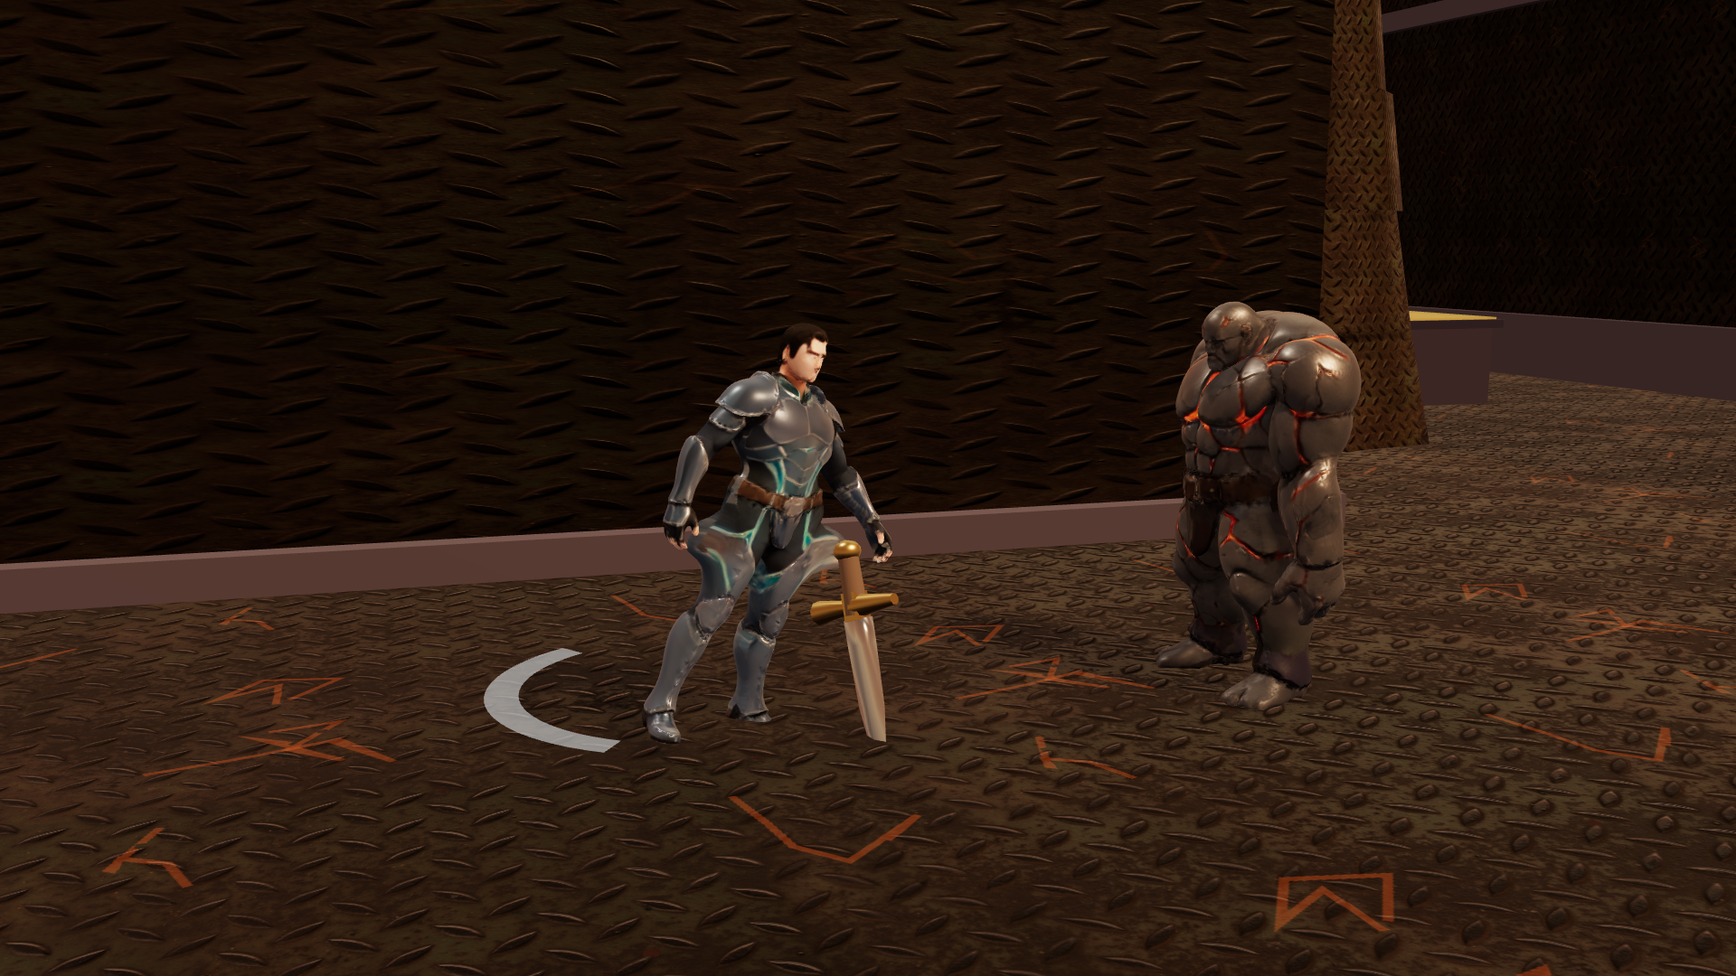
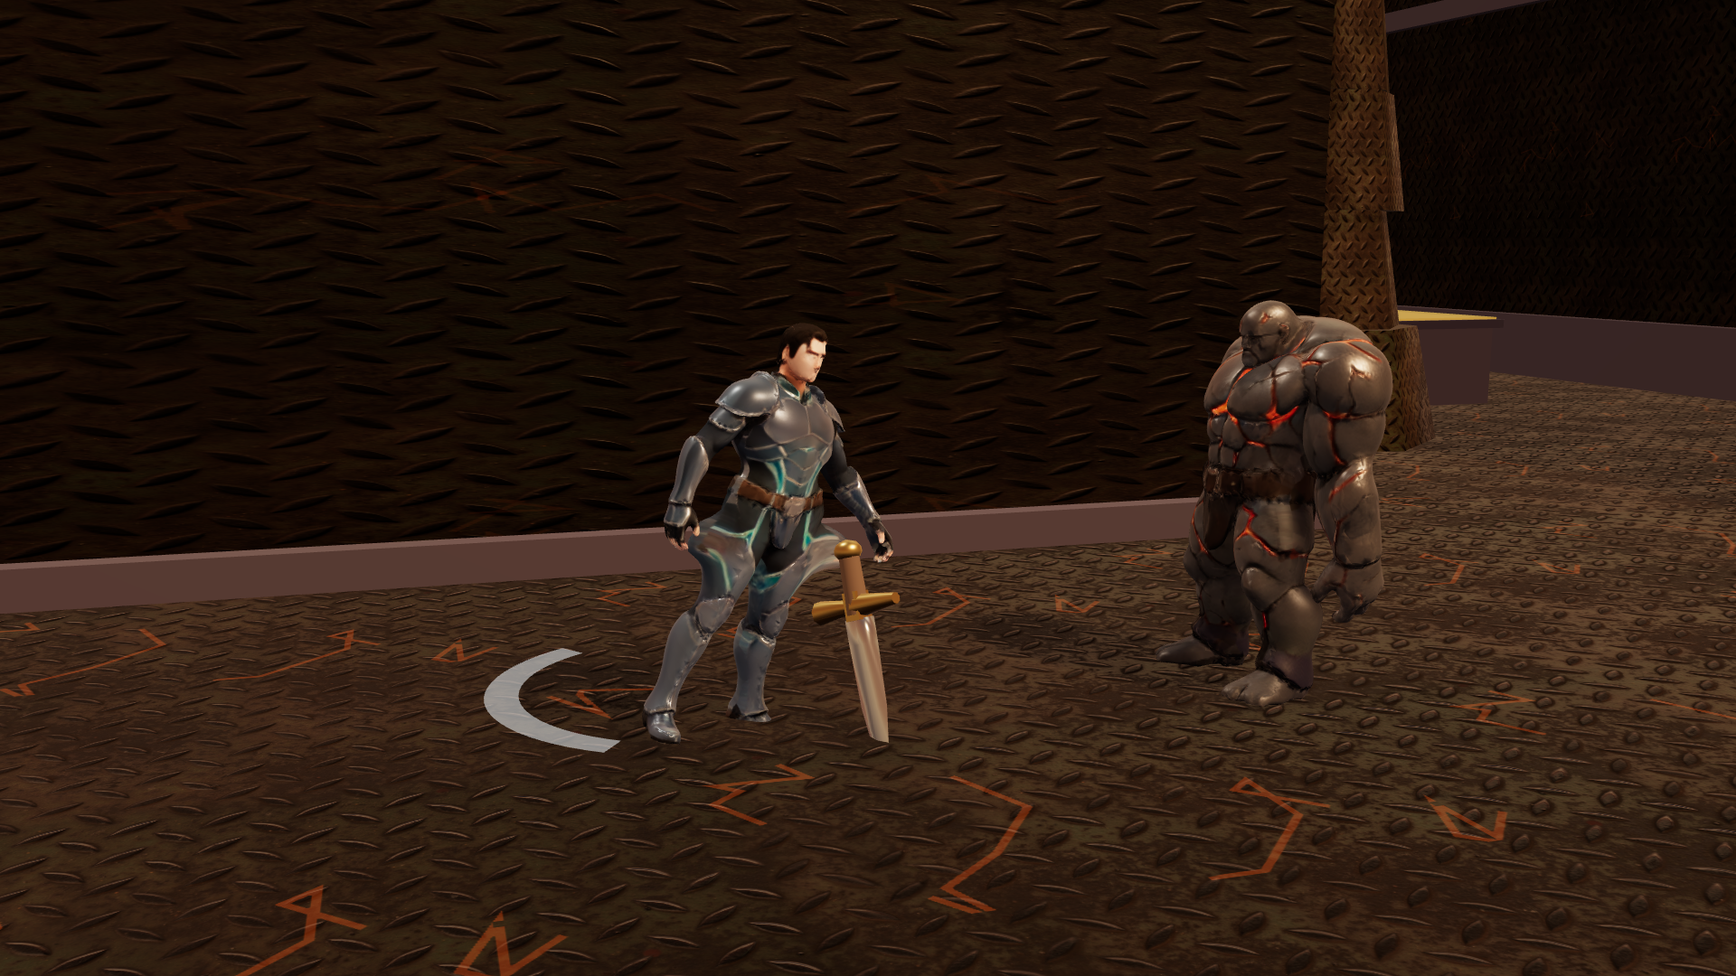
Batch 84: four reported bugs - the back button, the unlabelled toggle, the duplicate Close, and a tableau of two people standing still
BACK TO ONLINE VERSION DID NOTHING. #btn-back-to-online is in the markup and
nothing anywhere called addEventListener on it. The sync even had a step
rewriting the destination -

    location.href = '../index.html' + ...  ->  location.href = '/' + ...

- renaming a destination that nothing navigated to. That step has been a no-op
since it was written, and reported "ok" every run, which is why this looked
handled. Wired now, carrying location.search so ?debug=1 survives the trip.

"A BUTTON THAT JUST SAYS OFF AND ON" - and I caused it. setOptState writes into
a `.opt-state` pill and falls back to replacing the button's whole textContent
when there is no pill. The online rows are

    <button class="opt">Glow<span class="opt-state">On</span></button>

and this build's were plain `<button>Glow: On</button>`, so the moment
refreshBloomUI was unified the shared version ran here and the fallback ate the
label. The rows are the fix, not the fallback: same markup and CSS as the online
build, so shared code behaves identically and the two Settings screens match.

"AND IT DOESN'T SEEM TO CHANGE ANYTHING" is a different bug, and worse. Glow
cannot do anything here:

    function renderWithBloomLocal(scn, cam) { renderer.render(scn, cam); }

There is no EffectComposer in this build at all - bloom was turned down for
split screen, where it would have to run per viewport. The toggle wrote a flag,
reloaded the arena and changed nothing. Removed rather than relabelled: a
[…]

diff --git a/local/index.html b/local/index.html
@@ -717,6 +717,25 @@
             align-items: center; justify-content: center; z-index: 20;
         }
         #settings-screen .menu-section { max-width: 320px; }
+        .opt {
+            display: flex; align-items: center; justify-content: space-between;
+            gap: 12px; width: 100%; margin: 6px 0; padding: 9px 12px;
+            background: #1a2235; color: #cbd5e1; border: 1px solid #2e3a59;
+            border-radius: 6px; font-size: 0.82rem; font-weight: 600;
+            box-shadow: none; text-align: left; cursor: pointer;
+        }
+        .opt:hover { background: #232d47; color: #e2e8f0; box-shadow: none; }
+        .opt .opt-state {
+            flex: none; padding: 3px 10px; border-radius: 999px;
+            background: #0f1626; border: 1px solid #334155;
+            color: #94a3b8; font-size: 0.74rem; font-weight: 700;
+            letter-spacing: 0.04em;
+        }
+        /* ON is the only state that gets colour, so a glance finds it. */
+        .opt.is-on .opt-state {
+            background: rgba(0, 243, 255, 0.14); border-color: #00f3ff; color: #00f3ff;
+        }
+        .menu-section .opt { width: 100%; }
         .settings-list { display: flex; flex-direction: column; gap: 8px; margin: 10px 0; }
         .settings-list button { margin: 0; text-align: left; }
         .settings-check {
@@ -1294,7 +1313,6 @@
                     <div id="rebind-list"></div>
                     <p class="rebind-hint">Click a key, then press its replacement. Esc cancels.</p>
                     <button id="btn-rebind-reset">Reset to Defaults</button>
-                    <button id="btn-rebind-close">Close</button>
                 </div>
             </div>
 
@@ -1313,8 +1331,8 @@
                         <label for="vol-music">Music</label>
                         <input type="range" id="vol-music" min="0" max="1" step="0.01">
                     </div>
-                    <button id="btn-audio-mute">Mute: OFF</button>
-                    <button id="btn-audio-close">Close</button>
+                    <button id="btn-audio-mute" class="opt">Sound<span class="opt-state">On</span></button>
+                    <button id="btn-audio-close" class="btn-back">Back to Settings</button>
                 </div>
             </div>
 
@@ -1323,8 +1341,8 @@
                     <h3>Settings</h3>
                     <div class="settings-list">
                         <button id="btn-open-rebind">Rebind Keys</button>
-                        <button id="btn-hud-scale">HUD Text: Normal</button>
-                        <button id="btn-bloom">Glow: On</button>
+                        <button id="btn-hud-scale" class="opt">HUD Text<span class="opt-state">Normal</span></button>
+
                         <button id="btn-open-audio">Audio Settings</button>
                         <!-- Added after archiving: the only edit to this file's
                              behaviour, so switching builds is not a one-way
@@ -1340,7 +1358,6 @@
                         <button id="btn-reset-progress" class="btn-danger">Reset Progress</button>
                     </div>
                     <p class="settings-note">Clears both players' coins, unlocks and upgrades on this machine. Names are kept. Click twice to confirm.</p>
-                    <button id="btn-settings-close" class="btn-back">Close</button>
                 </div>
             </div>
 
@@ -2409,7 +2426,7 @@ function hudFont(px, bold) {
 function cycleHudScale() {
     HUD_TEXT_SCALE = HUD_TEXT_SCALE >= 1.3 ? 1 : 1.3;
     safeLSSet('astralClashHudScale', HUD_TEXT_SCALE);
-    document.getElementById('btn-hud-scale').textContent = `HUD Text: ${HUD_TEXT_SCALE > 1 ? 'Large' : 'Normal'}`;
+    setOptState('btn-hud-scale', HUD_TEXT_SCALE > 1 ? 'Large' : 'Normal', HUD_TEXT_SCALE > 1);
 }
 function toggleBloom() {
     bloomEnabled = !bloomEnabled;
@@ -2419,10 +2436,9 @@ function toggleBloom() {
     // the next map load.
     if (currentMap) loadMap(currentMap);
 }
-document.getElementById('btn-bloom').addEventListener('click', toggleBloom);
 refreshBloomUI();
 document.getElementById('btn-hud-scale').addEventListener('click', cycleHudScale);
-document.getElementById('btn-hud-scale').textContent = `HUD Text: ${HUD_TEXT_SCALE > 1 ? 'Large' : 'Normal'}`;
+setOptState('btn-hud-scale', HUD_TEXT_SCALE > 1 ? 'Large' : 'Normal', HUD_TEXT_SCALE > 1);
 
 function keyLabel(k) {
     if (k === ' ') return 'Space';
@@ -2486,7 +2502,6 @@ document.getElementById('btn-pause-settings').addEventListener('click', () => {
     openModal('settings');
 });
 document.getElementById('btn-pause-rebind').addEventListener('click', openRebind);
-document.getElementById('btn-rebind-close').addEventListener('click', closeRebind);
 document.getElementById('btn-rebind-reset').addEventListener('click', () => {
     BINDINGS = { p1: Object.assign({}, DEFAULT_BINDINGS.p1), p2: Object.assign({}, DEFAULT_BINDINGS.p2) };
     saveBindings();
@@ -2505,7 +2520,6 @@ document.getElementById('btn-audio-close').addEventListener('click', () => close
 // (the modal manager keeps Settings underneath), so closing either returns
 // here — no separate "hide Settings first" listeners needed.
 document.getElementById('btn-open-settings').addEventListener('click', () => { syncDebugUnlockUI(); openModal('settings'); });
-document.getElementById('btn-settings-close').addEventListener('click', () => closeModal());
 // Batch 13: the visible half of the unlock-everything override (the other
 // entry point is the typed cheat code in the keyboard dispatcher).
 // The sandbox checkbox no longer exists in the UI (see Settings); the
@@ -6772,6 +6786,8 @@ for (const nameSide of SIDES) {
 }
 document.getElementById('btn-reset-progress')
     .addEventListener('click', resetProgressClicked);
+document.getElementById('btn-back-to-online')
+    .addEventListener('click', () => { location.href = '/' + location.search; });
 refreshLocalNames();
 
 // Rolls random fighters for any bot side (their pick is hidden until now),

diff --git a/art/render_tableau.js b/art/render_tableau.js
@@ -102,9 +102,22 @@ const W = 1920, HGT = 1080;
         // name it. So the attacks are STARTED and the simulation stepped to the
         // frame wanted - the same thing swingcheck does to measure a swing.
         const fdA = FD[a.name].basic, fdB = FD[b.name].basic;
+        // render3D, NOT animateWeapon alone. For a RIGGED character the attack
+        // pose comes from the baked clip, and the clip is advanced by
+        // updateRigAnimation(dt) -> mixer.update(dt / 60), which only render3D
+        // calls. Stepping with animateWeapon alone left the mixer at t=0, so
+        // every rigged fighter stood in its idle pose while its atkState said
+        // it was mid-swing, and animateWeapon could only nudge the few bones it
+        // drives on top of that. Reported as "they aren't really fighting, just
+        // standing" - which was exactly right.
         const step = (f, o, n) => {
-            for (let i = 0; i < n; i++) { f.update(o, 1); D.animateWeapon(f); }
+            for (let i = 0; i < n; i++) { f.update(o, 1); f.render3D(null, 1); }
         };
+        // NEITHER MAY HIT THE OTHER WHILE POSING. `a` is stepped to its ACTIVE
+        // frame, which is a live hitbox - it connected, put `b` in hitstun and
+        // cancelled b's wind-up, so b came out of this standing. Measured:
+        // b.atkState was 'idle' when it should have been 'startup'.
+        a.invulnFrames = b.invulnFrames = 9999;
         a.tryStartAction('basic', b);
         b.tryStartAction('basic', a);
         // `a` lands on the first active frame - the contact pose, held since
@@ -116,6 +129,7 @@ const W = 1920, HGT = 1080;
         b.x = stageX + qx * 38; b.y = stageY + qy * 38;
         a.fx = qx; a.fy = qy; b.fx = -qx; b.fy = -qy;
         a.vx = a.vy = b.vx = b.vy = 0;
+        a.invulnFrames = b.invulnFrames = 0;
         a.render3D(null, 0); b.render3D(null, 0);
         D.animateWeapon(a); D.animateWeapon(b);
 
@@ -153,11 +167,30 @@ const W = 1920, HGT = 1080;
         D.renderer.setSize(w, h, false);
         cam.aspect = w / h;
         cam.updateProjectionMatrix();
+        // Measured, not assumed: how far each fighter's hand has travelled along
+        // its own forward axis. Standing is ~0; a strike is clearly positive.
+        // Same projection tests/weaponcheck.js uses.
+        const reach = (f) => {
+            const arms = D.armsOf ? D.armsOf(f) : [];
+            const arm = (arms || []).find(x => x && x.pivot && x.hand);
+            if (!arm) return null;
+            f.mesh.updateWorldMatrix(true, true);
+            const fwd = new THREE.Vector3(1, 0, 0).transformDirection(f.mesh.matrixWorld).normalize();
+            const sh = new THREE.Vector3().setFromMatrixPosition(arm.pivot.matrixWorld);
+            const hd = new THREE.Vector3().setFromMatrixPosition(arm.hand.matrixWorld);
+            return +hd.sub(sh).dot(fwd).toFixed(2);
+        };
+        window.__tableauPose = { a: { name: a.name, state: a.atkState, reach: reach(a) },
+                                 b: { name: b.name, state: b.atkState, reach: reach(b) } };
+
         const png = D.snapshot(cam);
         D.renderer.setSize(before.w, before.h, false);
         for (const o of hidden) o.visible = true;
         return png;
     }, [W, HGT]);
+
+    const pose = await page.evaluate(() => window.__tableauPose);
+    console.log('pose:', JSON.stringify(pose));
 
     if (!url || url.length < 5000) {
         console.error('render produced nothing usable');

diff --git a/index.html b/index.html
@@ -1574,7 +1574,6 @@
                     <p class="rebind-hint">Click a key, then press its replacement. Esc cancels. Two actions cannot share a key &mdash; they swap.</p>
                     <p id="rebind-note" class="rebind-note" aria-live="polite"></p>
                     <button id="btn-rebind-reset" class="btn-tertiary">Reset to Defaults</button>
-                    <button id="btn-rebind-close">Close</button>
                 </div>
             </div>
 
@@ -1629,7 +1628,6 @@
                          it IS rather than where it came from. The UI review
                          called the old wording a developer note, which it was. -->
                     <p class="settings-note">Two players on one keyboard, split screen. Shares your progress.</p>
-                    <button id="btn-settings-close" class="btn-back">Close</button>
                 </div>
             </div>
 
@@ -2664,7 +2662,6 @@ document.getElementById('btn-pause-settings').addEventListener('click', () => {
     openModal('settings');
 });
 document.getElementById('btn-pause-rebind').addEventListener('click', openRebind);
-document.getElementById('btn-rebind-close').addEventListener('click', closeRebind);
 // Says so, rather than appearing to do nothing to a panel that was already
 // showing the defaults.
 document.getElementById('btn-rebind-reset').addEventListener('click', () => {
@@ -2686,7 +2683,6 @@ document.getElementById('btn-audio-close').addEventListener('click', () => close
 // (the modal manager keeps Settings underneath), so closing either returns
 // here — no separate "hide Settings first" listeners needed.
 document.getElementById('btn-open-settings').addEventListener('click', () => { syncDebugUnlockUI(); openModal('settings'); });
-document.getElementById('btn-settings-close').addEventListener('click', () => closeModal());
 // Batch 13: the visible half of the unlock-everything override (the other
 // entry point is the typed cheat code in the keyboard dispatcher).
 // The sandbox checkbox no longer exists in the UI (see Settings); the

diff --git a/tests/localuxcheck.js b/tests/localuxcheck.js
@@ -102,7 +102,10 @@ const H = require('./harness');
     section('Nothing inside a panel has its own scrollbar:');
     st = await page.evaluate(() => {
         const D = window.ACDebug;
-        document.getElementById('btn-settings-close').click();
+        // The labelled Close button was removed as a duplicate of the injected X
+            // (ensureModalClose adds one to every panel, and it is the control that
+            // cannot end up below the fold). Close the way a player now does.
+            document.querySelector('#settings-screen .modal-x').click();
         // Show a fighter detail, the worst offender: a 200px scroll box inside
         // a panel inside an overlay.
         document.querySelectorAll('#p1-grid .fighter-btn')[0].click();

diff --git a/tests/layoutcheck.js b/tests/layoutcheck.js
@@ -177,7 +177,10 @@ const SIZES = [
                 const el = document.getElementById('settings-screen');
                 return !!el && getComputedStyle(el).display !== 'none';
             })();
-            document.getElementById('btn-settings-close').click();
+            // The labelled Close button was removed as a duplicate of the injected X
+            // (ensureModalClose adds one to every panel, and it is the control that
+            // cannot end up below the fold). Close the way a player now does.
+            document.querySelector('#settings-screen .modal-x').click();
             return out;
         });
         // A 2px allowance: a focus ring or a 1px border legitimately sits on the

diff --git a/art/sync_local.py b/art/sync_local.py
@@ -154,7 +154,11 @@ INTERFACE = {
     # portable now that boundaries are right, but it reads setOptState on an
     # options row this build does not have, so the two-line inlined version
     # here says the same thing without the row. Left as the honest remainder.
-    'cycleHudScale': 'sets the button text directly; no options row here',
+
+    # Same behaviour, reached differently: the online body calls
+    # refreshHudScaleUI() and this one calls setOptState() directly, because that
+    # one-line helper is not portable yet. Both write the same pill.
+    'cycleHudScale': 'inlines refreshHudScaleUI, which cannot travel yet',
 
     # --- rendering: one full-screen camera vs two split-screen viewports
     'renderer': 'split-screen sizing and scissor state',
@@ -1019,6 +1023,23 @@ def main():
     dst = dst.replace("location.href = '../index.html' + location.search;",
                       "location.href = '/' + location.search;")
 
+    # ...AND THE BUTTON THAT WAS NEVER WIRED. #btn-back-to-online sits in the
+    # markup with no listener anywhere, so "Back to Online Version" did nothing.
+    # The rewrite above was renaming a destination that nothing navigated to,
+    # which is why this looked handled: a step that reports success every run
+    # and changes nothing reads exactly like a step that works.
+    #
+    # location.search is carried so ?debug=1 survives the trip, which is the
+    # reason anyone presses this button while testing.
+    if "getElementById('btn-back-to-online')" not in dst:
+        anchor = ".addEventListener('click', resetProgressClicked);"
+        dst = rep(dst, anchor,
+                  anchor + '\n'
+                  + "document.getElementById('btn-back-to-online')" + '\n'
+                  + "    .addEventListener('click', () => "
+                  + "{ location.href = '/' + location.search; });",
+                  'back to online button')
+
     # --------------------------------------------------------- mobile notice
     # /local must refuse to run on a phone too.
     #
@@ -1622,12 +1643,17 @@ if (location.protocol === 'https:'
                   "        .side-purse {", 'name field css')
 
         # --- reset progress, in settings -----------------------------------
+        # required=False: this anchors on a button that has been removed as a
+        # duplicate of the injected X. The step is dormant anyway - this build
+        # already has the reset-progress row - so skipping is the right answer
+        # rather than aborting the sync.
         dst = rep(dst, '<button id="btn-settings-close"',
                   '<div class="settings-list" style="margin-top:14px;">\n'
                   '                        <button id="btn-reset-progress" class="btn-danger">Reset Progress</button>\n'
                   '                    </div>\n'
                   '                    <p class="settings-note">Clears both players\' coins, unlocks and upgrades on this machine. Names are kept. Click twice to confirm.</p>\n'
-                  '                    <button id="btn-settings-close"', 'reset progress button')
+                  '                    <button id="btn-settings-close"',
+                  'reset progress button', required=False)
         dst = rep(dst, "        .settings-note {",
                   "        .btn-danger {\n"
                   "            background: transparent; color: #f87171; border: 1px solid #f87171;\n"
@@ -2393,6 +2419,89 @@ function buildMapThumbnail(map) {""", 'function buildMapPlan(map) {', 'thumb ren
             i = dst.rindex(marker, 0, i)
         dst = dst[:i] + prof + dst[i:]
         print('  %-34s ok' % 'build profile')
+
+    # --------------------------------------------- settings rows keep their labels
+    # setOptState writes into a `.opt-state` pill and, failing to find one,
+    # replaces the button's whole textContent - so a plain button loses its
+    # label the first time shared code touches it. Reported as "a button that
+    # just says off and on without saying what is off and what is on", and it
+    # appeared the moment refreshBloomUI was unified.
+    #
+    # The row is the fix, not the fallback: same markup as the online build, so
+    # the shared code behaves identically and the two Settings screens match.
+    opt_css = block(src, '        .opt {', '        .menu-section .opt { width: 100%; }')
+    if '.opt-state' not in dst:
+        dst = rep(dst, '        .settings-list {',
+                  opt_css + '        .menu-section .opt { width: 100%; }' + chr(10)
+                  + '        .settings-list {', 'opt row css')
+
+    for bid, label, initial in (('btn-hud-scale', 'HUD Text', 'Normal'),
+                                ('btn-audio-mute', 'Sound', 'On')):
+        plain = '<button id="%s">' % bid
+        if plain in dst:
+            i = dst.index(plain)
+            j = dst.index('</button>', i) + len('</button>')
+            dst = (dst[:i]
+                   + '<button id="%s" class="opt">%s<span class="opt-state">%s</span></button>'
+                     % (bid, label, initial)
+                   + dst[j:])
+            print('  %-34s ok' % ('opt row: ' + bid))
+
+    # GLOW IS REMOVED HERE, not relabelled. renderWithBloomLocal is
+    # `renderer.render(scn, cam)` and there is no EffectComposer in this build at
+    # all - bloom was turned down for split screen, where it would have to run
+    # per viewport. The toggle wrote a flag, reloaded the arena, and changed
+    # nothing visible. Reported as "it doesn't seem to change anything".
+    i = dst.find('<button id="btn-bloom"')
+    if i != -1:
+        j = dst.index('</button>', i) + len('</button>')
+        k = comment_start(dst, i)
+        dst = dst[:k] + dst[j:]
+        print('  %-34s ok' % 'glow toggle removed (no composer)')
+    # ...and its wiring, which would now throw on a missing element.
+    dst = dst.replace(
+        "document.getElementById('btn-bloom').addEventListener('click', toggleBloom);" + chr(10), '')
+    dst = dst.replace("document.getElementById('btn-bloom').addEventListener('click', toggleBloom);", '')
+
+    # cycleHudScale writes through setOptState, so the pill survives.
+    # It used to set the button's whole textContent, which was right while the
+    # button was plain and destroys the label now that it is an .opt row. The
+    # online body calls refreshHudScaleUI() for this; that one-line helper is not
+    # portable yet, so the call it makes is inlined rather than left wrong.
+    dst = dst.replace(
+        "    document.getElementById('btn-hud-scale').textContent = "
+        + '`HUD Text: ${HUD_TEXT_SCALE > 1 ? ' + "'Large' : 'Normal'}`;",
+        "    setOptState('btn-hud-scale', HUD_TEXT_SCALE > 1 ? 'Large' : 'Normal',"
+        + " HUD_TEXT_SCALE > 1);")
+    dst = dst.replace(
+        "document.getElementById('btn-hud-scale').textContent = "
+        + '`HUD Text: ${HUD_TEXT_SCALE > 1 ? ' + "'Large' : 'Normal'}`;",
+        "setOptState('btn-hud-scale', HUD_TEXT_SCALE > 1 ? 'Large' : 'Normal',"
+        + " HUD_TEXT_SCALE > 1);")
+
+    # The audio panel's button NAVIGATES, it does not close - it goes back to
+    # Settings, which is the panel above it. The online build already says so.
+    dst = dst.replace('<button id="btn-audio-close" class="btn-back">Close</button>',
+                      '<button id="btn-audio-close" class="btn-back">Back to Settings</button>')
+    dst = dst.replace('<button id="btn-audio-close">Close</button>',
+                      '<button id="btn-audio-close" class="btn-back">Back to Settings</button>')
+
+    # THE DUPLICATE CLOSE BUTTONS GO HERE TOO. ensureModalClose injects an X into
+    # every panel, so a button whose whole label is "Close" is a second control
+    # for the same action. The X is the one that stays: it exists because "Close
+    # sits below the fold" was a real report, so the labelled one is precisely
+    # the one that cannot be relied on, and the X carries aria-label="Close".
+    #
+    # Removed here as well as in the online build because this file is PATCHED,
+    # not regenerated - deleting them upstream leaves this build's copies alone.
+    for markup in ('                    <button id="btn-settings-close" class="btn-back">Close</button>' + chr(10),
+                   '                    <button id="btn-rebind-close">Close</button>' + chr(10)):
+        if markup in dst:
+            dst = dst.replace(markup, '')
+            print('  %-34s ok' % 'duplicate Close removed')
+    for wiring in ("document.getElementById('btn-settings-close').addEventListener('click', () => closeModal());" + chr(10),
+                   "document.getElementById('btn-rebind-close').addEventListener('click', closeRebind);" + chr(10)):
+        dst = dst.replace(wiring, '')
 
     # ------------------------------------------------- CSS asset URLs, all of them
     # CSS url() resolves against the DOCUMENT, and this one is a directory down,
